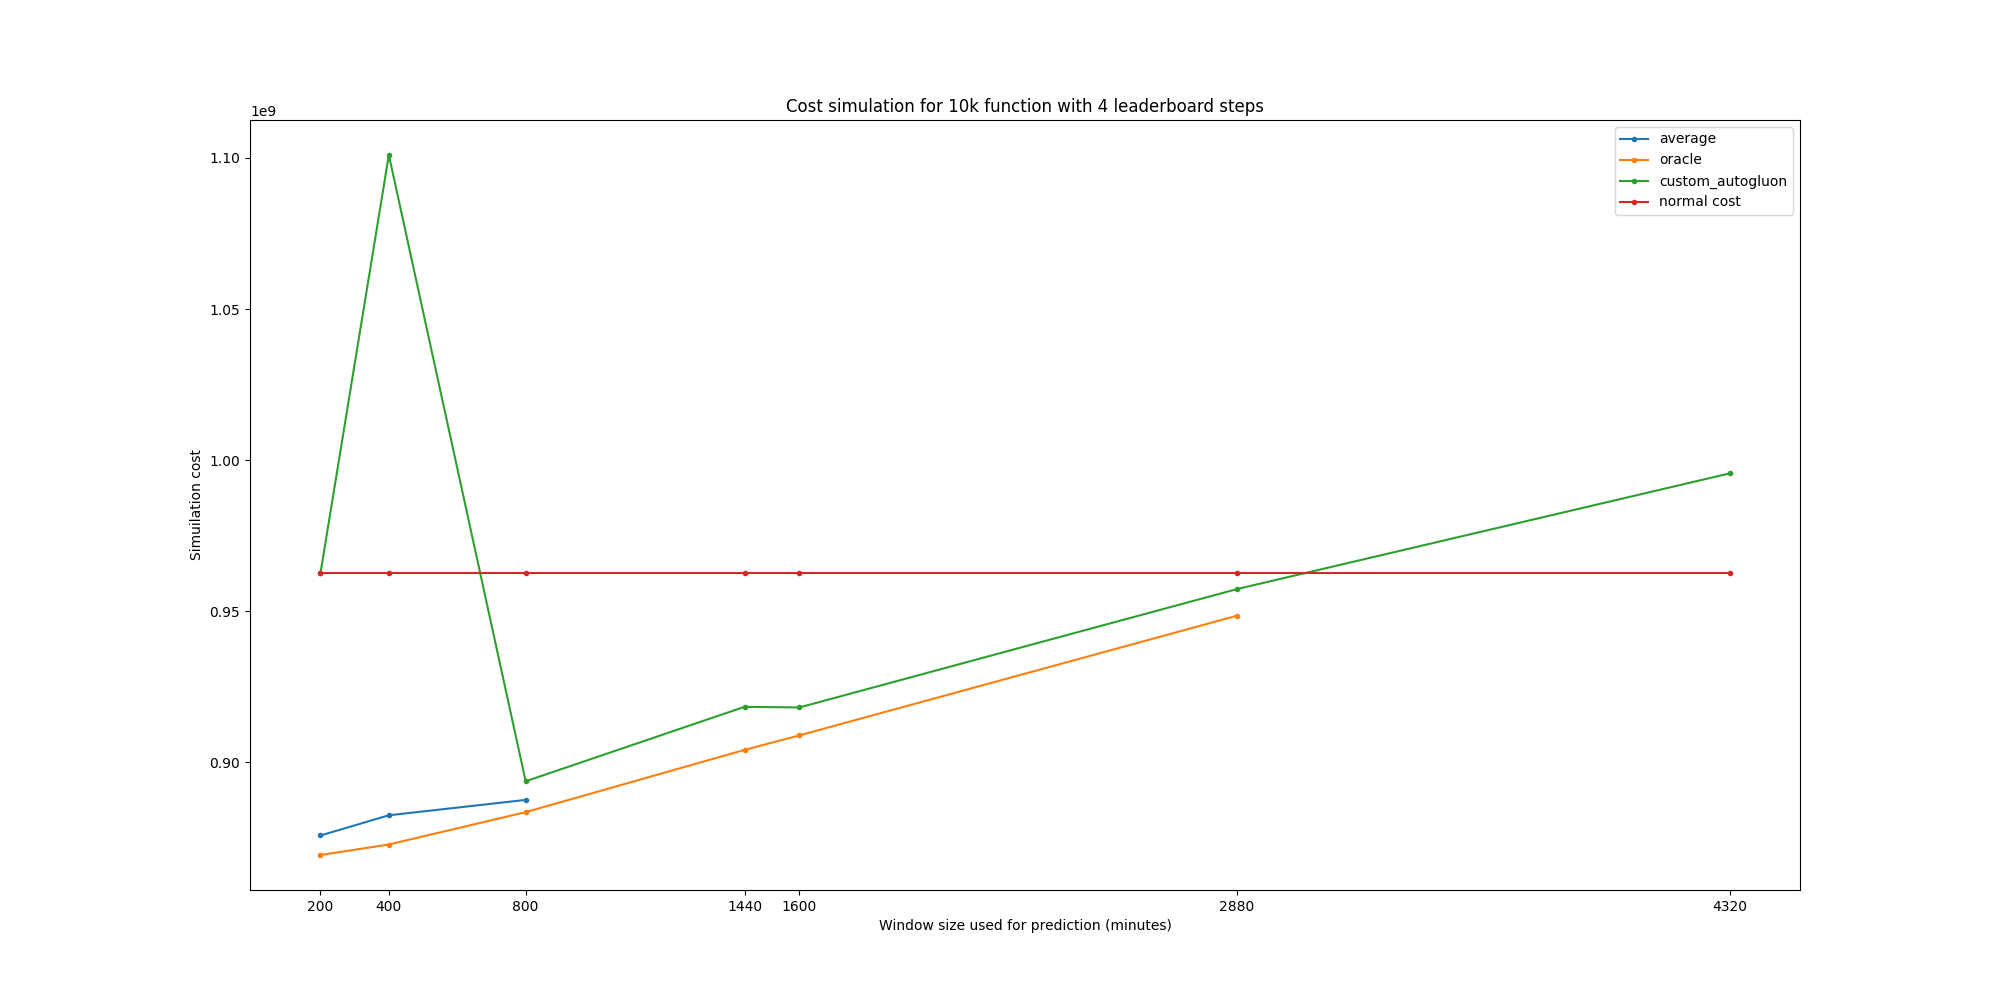
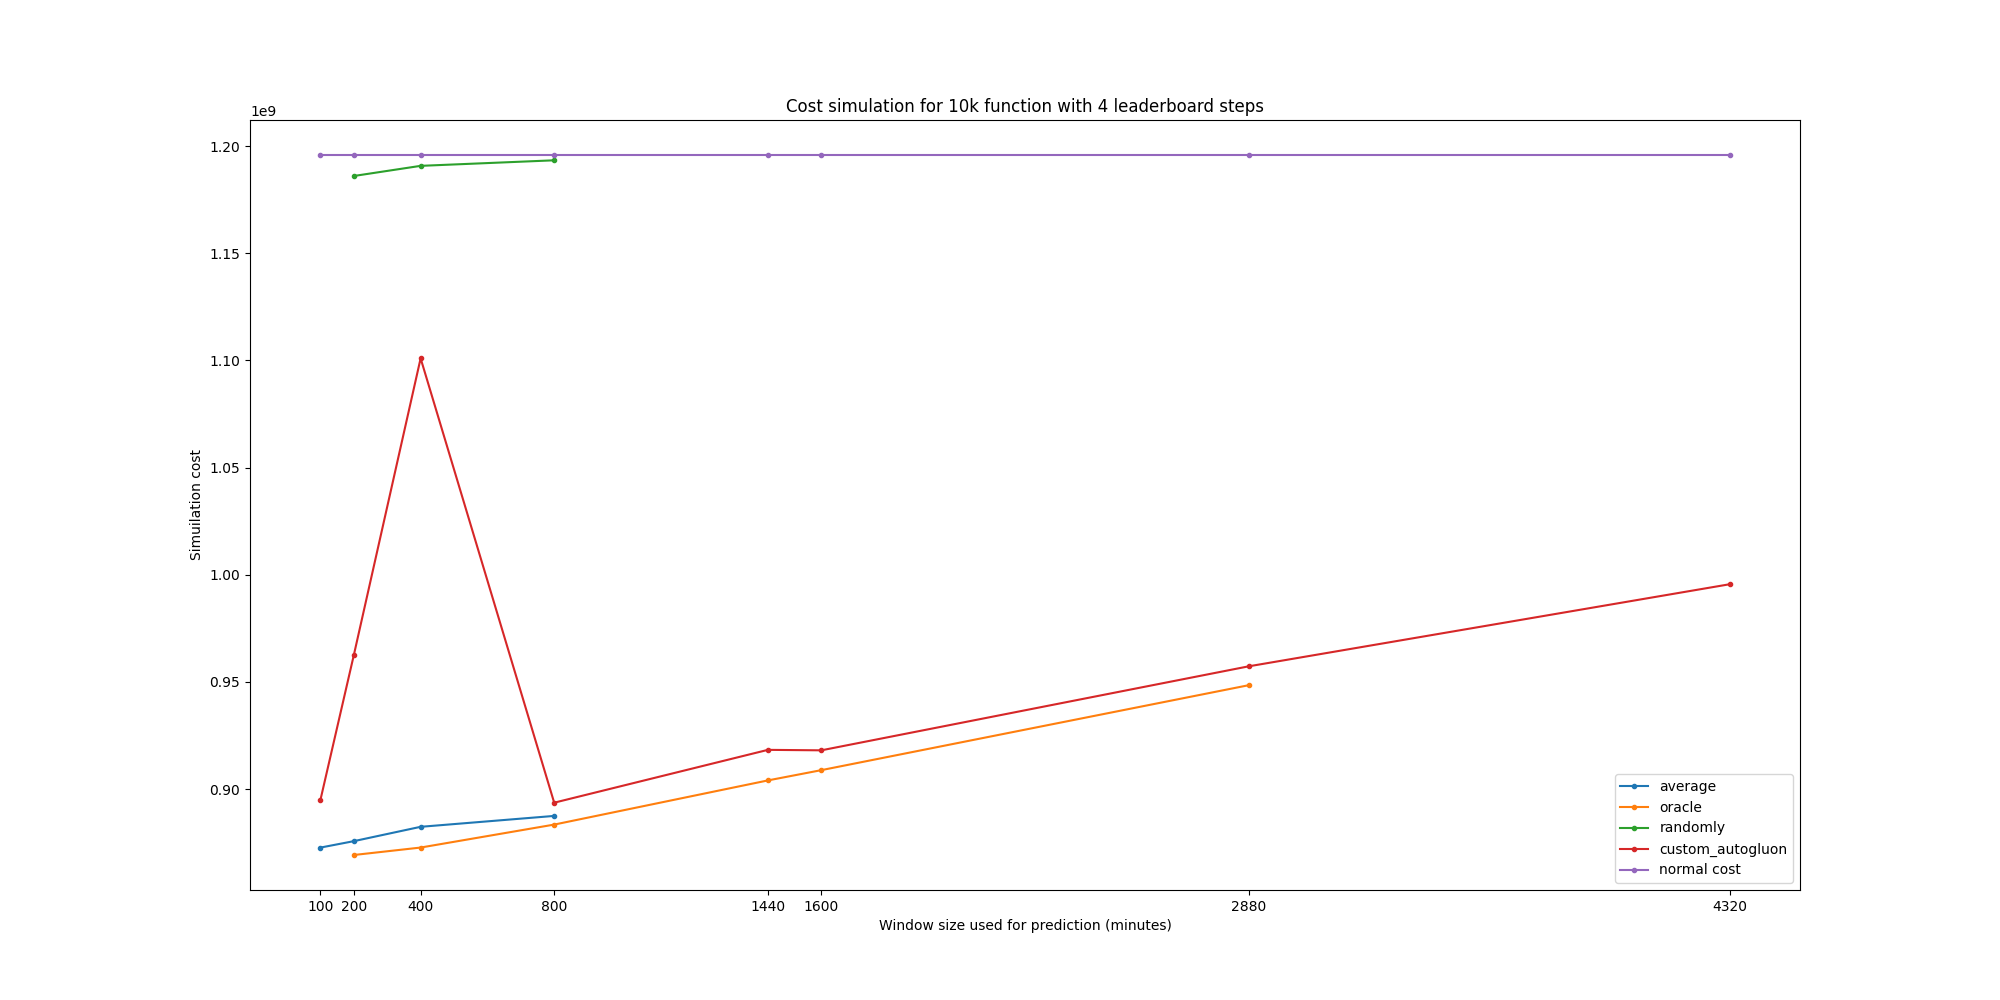
random model implemented

diff --git a/data-forecast/predictor/randomly/randomly_model_predictor.py b/data-forecast/predictor/randomly/randomly_model_predictor.py
@@ -1,0 +1,56 @@
+#load all the required packages
+import pandas as pd
+import shared
+from autogluon.timeseries import TimeSeriesDataFrame
+import random
+
+
+
+
+#######################################################
+################## Online processing ##################
+#######################################################
+
+##########
+#Find Similar Function,  evaluate query trace from multiple starting points
+##########
+
+def get_function_forecast(query_obj, trained_objs, models_location):
+
+    query_trace = query_obj[1]
+
+    # Find the last timestamp in the query trace
+    ts_df = TimeSeriesDataFrame(query_trace)
+    converted_ts_df = ts_df.convert_frequency(shared.get_config("resample_interval"), agg_numeric=shared.get_config("aggregate_function"), num_cpus=1)
+    last_timestamp = converted_ts_df.index.get_level_values('timestamp').max()
+    #print(converted_ts_df)
+
+    # Calculate the random value of the target values in the query trace, the value 134486 was picked from one of the most popular function on the dataset
+    average_value = random.randint(0,134486) 
+
+    # Number of future points to predict
+    prediction_length = shared.get_config("autogluon_prediction_length")
+
+    # Create a DataFrame with the predicted average values
+    future_timestamps = pd.date_range(start=last_timestamp, periods=prediction_length + 1, freq=shared.get_config("resample_interval"))[1:]
+    prediction = pd.DataFrame(data={'timestamp': future_timestamps, 'target': [average_value] * prediction_length})
+
+    #print(prediction)
+    #print(prediction.set_index('timestamp')['target'])
+
+    return prediction.set_index('timestamp')['target']
+
+
+#######################################################
+################## Offline processing #################
+#######################################################
+
+
+#####
+# Main offline functions, to train a entire dataset of tarces
+#####
+
+def get_trained_dataset(trace_ids_file_path):
+
+    return None
+

diff --git a/data-forecast/plots/plot_cost_comparation.py b/data-forecast/plots/plot_cost_comparation.py
@@ -111,7 +111,7 @@ def plot_simulation_cost(model_types, prediction_window):
 
 def plot_normal_cost(model_types, prediction_window):
 
-    simulation_cost = get_simulation_cost(simulation_dir, simulation_start, simulation_end, prediction_window[0], optimized_traces_in_each_leaderboard, model_types[0])
+    simulation_cost = get_normal_cost(simulation_dir, simulation_start, simulation_end, prediction_window[0], optimized_traces_in_each_leaderboard, model_types[0])
     model_cost = [simulation_cost]*len(prediction_window)
 
     print(f"simulation_cost of normal cost for all windows: {model_cost}" )
@@ -127,7 +127,7 @@ fig = plt.figure(figsize=(20, 10))
 
 model_types = ["custom_autogluon", "average", "oracle"]
 model_types = ["average"]
-prediction_window = [200, 400, 800]
+prediction_window = [100, 200, 400, 800]
 plot_simulation_cost(model_types, prediction_window)
 
 
@@ -135,8 +135,12 @@ model_types = ["oracle"]
 prediction_window = [200, 400, 800, 1440, 1600, 2880]
 plot_simulation_cost(model_types, prediction_window)
 
+model_types = ["randomly"]
+prediction_window = [200, 400, 800]
+plot_simulation_cost(model_types, prediction_window)
+
 model_types = ["custom_autogluon"]
-prediction_window = [200, 400, 800, 1440, 1600, 2880, 4320]
+prediction_window = [100, 200, 400, 800, 1440, 1600, 2880, 4320]
 plot_simulation_cost(model_types, prediction_window)
 plot_normal_cost(model_types, prediction_window)
 

diff --git a/data-forecast/predictor/predictor_factory.py b/data-forecast/predictor/predictor_factory.py
@@ -9,9 +9,11 @@ sys.path.append(os.path.abspath(os.path.join(os.path.dirname(__file__), '../')))
 sys.path.append(os.path.abspath(os.path.join(os.path.dirname(__file__), '../custom_autogluon')))
 sys.path.append(os.path.abspath(os.path.join(os.path.dirname(__file__), '../oracle')))
 sys.path.append(os.path.abspath(os.path.join(os.path.dirname(__file__), '../average')))
+sys.path.append(os.path.abspath(os.path.join(os.path.dirname(__file__), '../randomly')))
 from custom_autogluon import autogluon_model_predictor
 from oracle import oracle_model_predictor
 from average import average_model_predictor
+from randomly import randomly_model_predictor
 
 current_predictor=None
 
@@ -26,7 +28,9 @@ def get_predictor(model_name):
     elif model_name == "oracle":
         current_predictor = oracle_model_predictor 
     elif model_name == "average":
-        current_predictor = average_model_predictor         
+        current_predictor = average_model_predictor
+    elif model_name == "randomly":
+        current_predictor = randomly_model_predictor                 
     else:
         current_predictor = autogluon_model_predictor
 

diff --git a/data-forecast/predictor/average/average_model_predictor.py b/data-forecast/predictor/average/average_model_predictor.py
@@ -27,7 +27,7 @@ def get_function_forecast(query_obj, trained_objs, models_location):
     ts_df = TimeSeriesDataFrame(query_trace)
     converted_ts_df = ts_df.convert_frequency(shared.get_config("resample_interval"), agg_numeric=shared.get_config("aggregate_function"), num_cpus=1)
     last_timestamp = converted_ts_df.index.get_level_values('timestamp').max()
-    print(converted_ts_df)
+    #print(converted_ts_df)
 
     # Calculate the average of the target values in the query trace
     average_value = converted_ts_df['target'].astype(float).mean()
@@ -39,8 +39,8 @@ def get_function_forecast(query_obj, trained_objs, models_location):
     future_timestamps = pd.date_range(start=last_timestamp, periods=prediction_length + 1, freq=shared.get_config("resample_interval"))[1:]
     prediction = pd.DataFrame(data={'timestamp': future_timestamps, 'target': [average_value] * prediction_length})
 
-    print(prediction)
-    print(prediction.set_index('timestamp')['target'])
+    #print(prediction)
+    #print(prediction.set_index('timestamp')['target'])
 
     return prediction.set_index('timestamp')['target']
 
